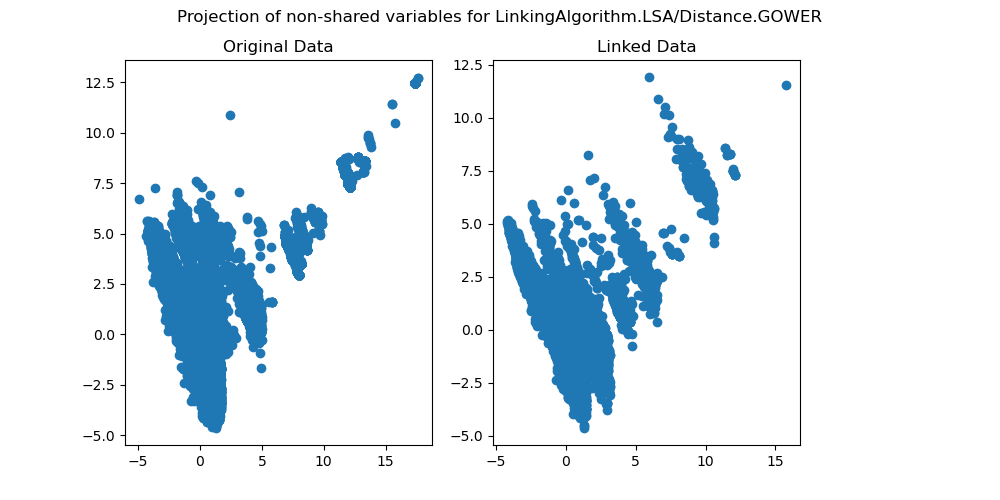
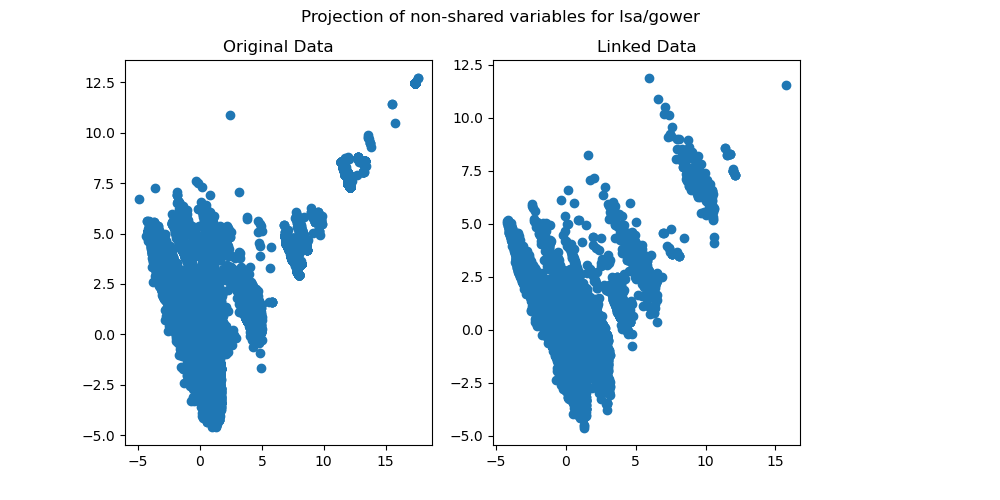
finished analysis of afi data

Changed region(s): [[0.186, 0.0, 0.837, 0.06]]

diff --git a/run_many_linkage_afi.py b/run_many_linkage_afi.py
@@ -1,13 +1,17 @@
-"""Example of how to call the different bricks on the PRA dataset."""
+"""Script performing linkage under different settings for a given dataset."""
 
-import numpy as np
 import pandas as pd
 
-from pre_linkage_metrics import ImputeMethod, contribution_score, get_best_n_from_m_variables, get_unicity_score
 from linkage import Distance, link_datasets, LinkingAlgorithm
+from pre_linkage_metrics import ImputeMethod, contribution_score, get_unicity_score
+from post_linkage_metrics import generate_projection_plot, get_correlation_retention, get_correlations, get_non_shared_var_projections, get_reconstruction_score, plot_correlations
 
+# load original data
+df = pd.read_csv("data/afi_clear.csv")
+df1 = pd.read_csv("data/afi_A.csv")
+df2 = pd.read_csv("data/afi_B.csv")
 
-# load avatars from both sources
+# load avatars from both sources
 df1_avatars = pd.read_csv("data/afi_A_unshuffled_avatars.csv")
 df2_avatars = pd.read_csv("data/afi_B_unshuffled_avatars.csv")
 
@@ -15,8 +19,10 @@ should_be_categorical_columns_1 = ['nationalite', 'pays_residence', 'sexe']
 should_be_categorical_columns_2 = ['nationalite', 'pays_residence', 'sexe', 'demande_statut', 'diplome', 'domaine_formation', 'pays_etablissement']
 
 for col in should_be_categorical_columns_1:
+    df1[col] = df1[col].astype(object)
     df1_avatars[col] = df1_avatars[col].astype(object)
 for col in should_be_categorical_columns_2:
+    df2[col] = df2[col].astype(object)
     df2_avatars[col] = df2_avatars[col].astype(object)
 
 # Select common/shared columns
@@ -24,12 +30,30 @@ shared_columns = should_be_categorical_columns_1
 
 #linkage_algos = [LinkingAlgorithm.LSA, LinkingAlgorithm.MIN_ORDER]
 linkage_algos = [LinkingAlgorithm.LSA]
-#distances = [Distance.GOWER, Distance.PROJECTION_DIST_FIRST_SOURCE, Distance.PROJECTION_DIST_SECOND_SOURCE, Distance.PROJECTION_DIST_ALL_SOURCES, Distance.ROW_ORDER, Distance.RANDOM]
+linkage_algo = "lsa"
+
+#distances = [Distance.PROJECTION_DIST_ALL_SOURCES]
+#distance = "proj_all_sources"
 distances = [Distance.GOWER]
+distance = "gower"
 # distances = [Distance.PROJECTION_DIST_FIRST_SOURCE, Distance.PROJECTION_DIST_ALL_SOURCES, Distance.RANDOM]
 # linkage_algos = [LinkingAlgorithm.MIN_ORDER]
 # distances = [Distance.RANDOM]
 should_shuffle_before_linkage = True
+
+n_unique_comb1 = get_unicity_score(df1, shared_columns)
+n_unique_comb2 = get_unicity_score(df2, shared_columns)
+
+n_unique_comb1_avatar = get_unicity_score(df1_avatars, shared_columns)
+n_unique_comb2_avatar = get_unicity_score(df2_avatars, shared_columns)
+
+print("== Pre-linkage metrics ==")
+print(f"Unicity score for source 1 original: {n_unique_comb1}")
+print(f"Unicity score for source 2 original: {n_unique_comb2}")
+
+print(f"Unicity score for source 1 avatar: {n_unique_comb1_avatar}")
+print(f"Unicity score for source 2 avatar: {n_unique_comb2_avatar}")
+
 
 for linkage_algo in linkage_algos:
     for distance in distances:
@@ -42,3 +66,29 @@ for linkage_algo in linkage_algos:
         linked_df = link_datasets(_df1_avatars, _df2_avatars, shared_columns, distance=distance, linking_algo=linkage_algo)
         linked_df.to_csv(f"data/afi_linked_data__avatar__{linkage_algo.value}__{distance.value}.csv", index=False)
         # print("\n\nLinked data: \n", linked_df)
+
+
+################################
+# Post linkage Metrics
+################################
+_columns1 = set(df1_avatars.columns) - set(shared_columns)
+_columns2 = set(df2_avatars.columns) - set(shared_columns)
+
+linked_df = pd.read_csv("data/afi_linked_data__avatar__lsa__gower.csv")
+
+# statistics
+corr_records, corr_avatars = get_correlations(df, linked_df, list(_columns1), list(_columns2))
+
+corr_retention_stats = get_correlation_retention(df, linked_df, list(_columns1), list(_columns2))
+# {'corr_diff_sum': 17.497529801608245, 'corr_diff_mean': 0.019638080585418907, 'corr_diff_std': 0.0401587750859927, 'corr_diff_max': 0.8891200328461123}
+
+reconstruction_stats = get_reconstruction_score(df, linked_df)
+# numpy.core._exceptions._ArrayMemoryError: Unable to allocate 45.1 GiB for an array with shape (495962, 97619) and data type bool
+
+# plots
+plt = plot_correlations(corr_records, corr_avatars, title=f"{linkage_algo} / {distance} / afi")
+plt.savefig(f"data/afi_linked_data__avatar__{linkage_algo}__{distance}_correlations.png")
+
+proj_original, proj_linked = get_non_shared_var_projections(df, linked_df, list(_columns1), list(_columns2))
+plt = generate_projection_plot(proj_original, proj_linked, title=f"Projection of non-shared variables for {linkage_algo}/{distance}")
+plt.savefig(f"data/afi_linked_data__avatar__{linkage_algo}__{distance}_non_shared_var_projections.png")
